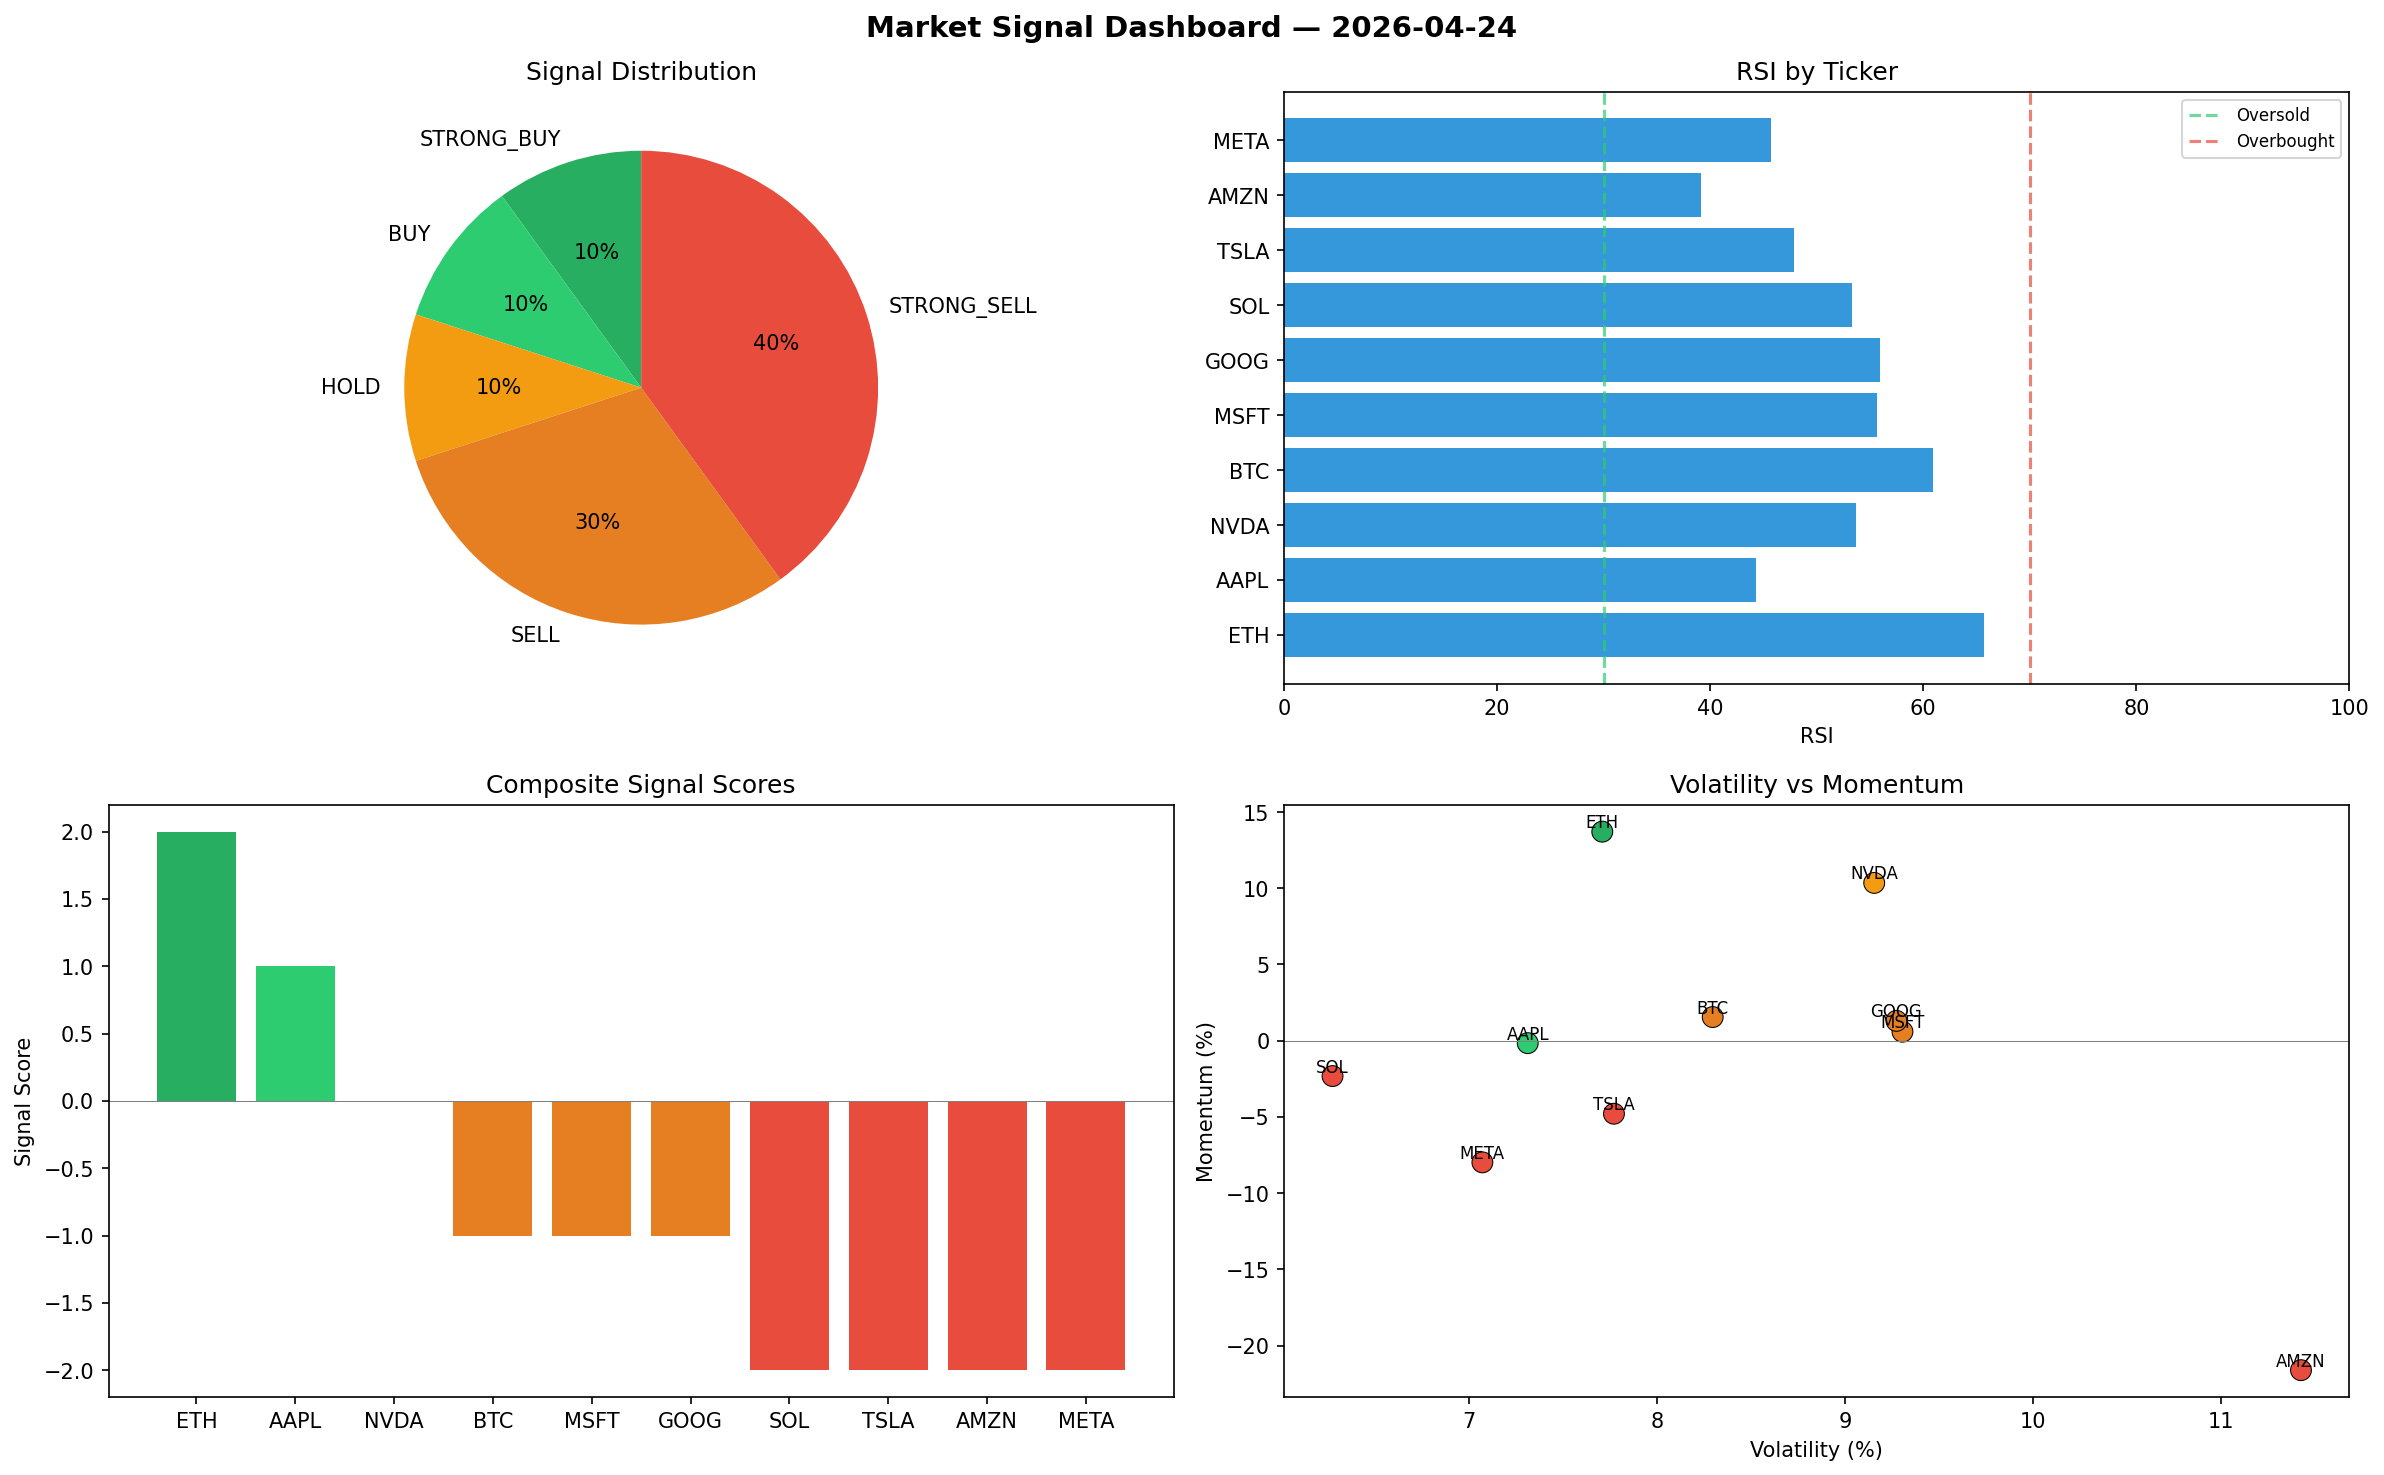
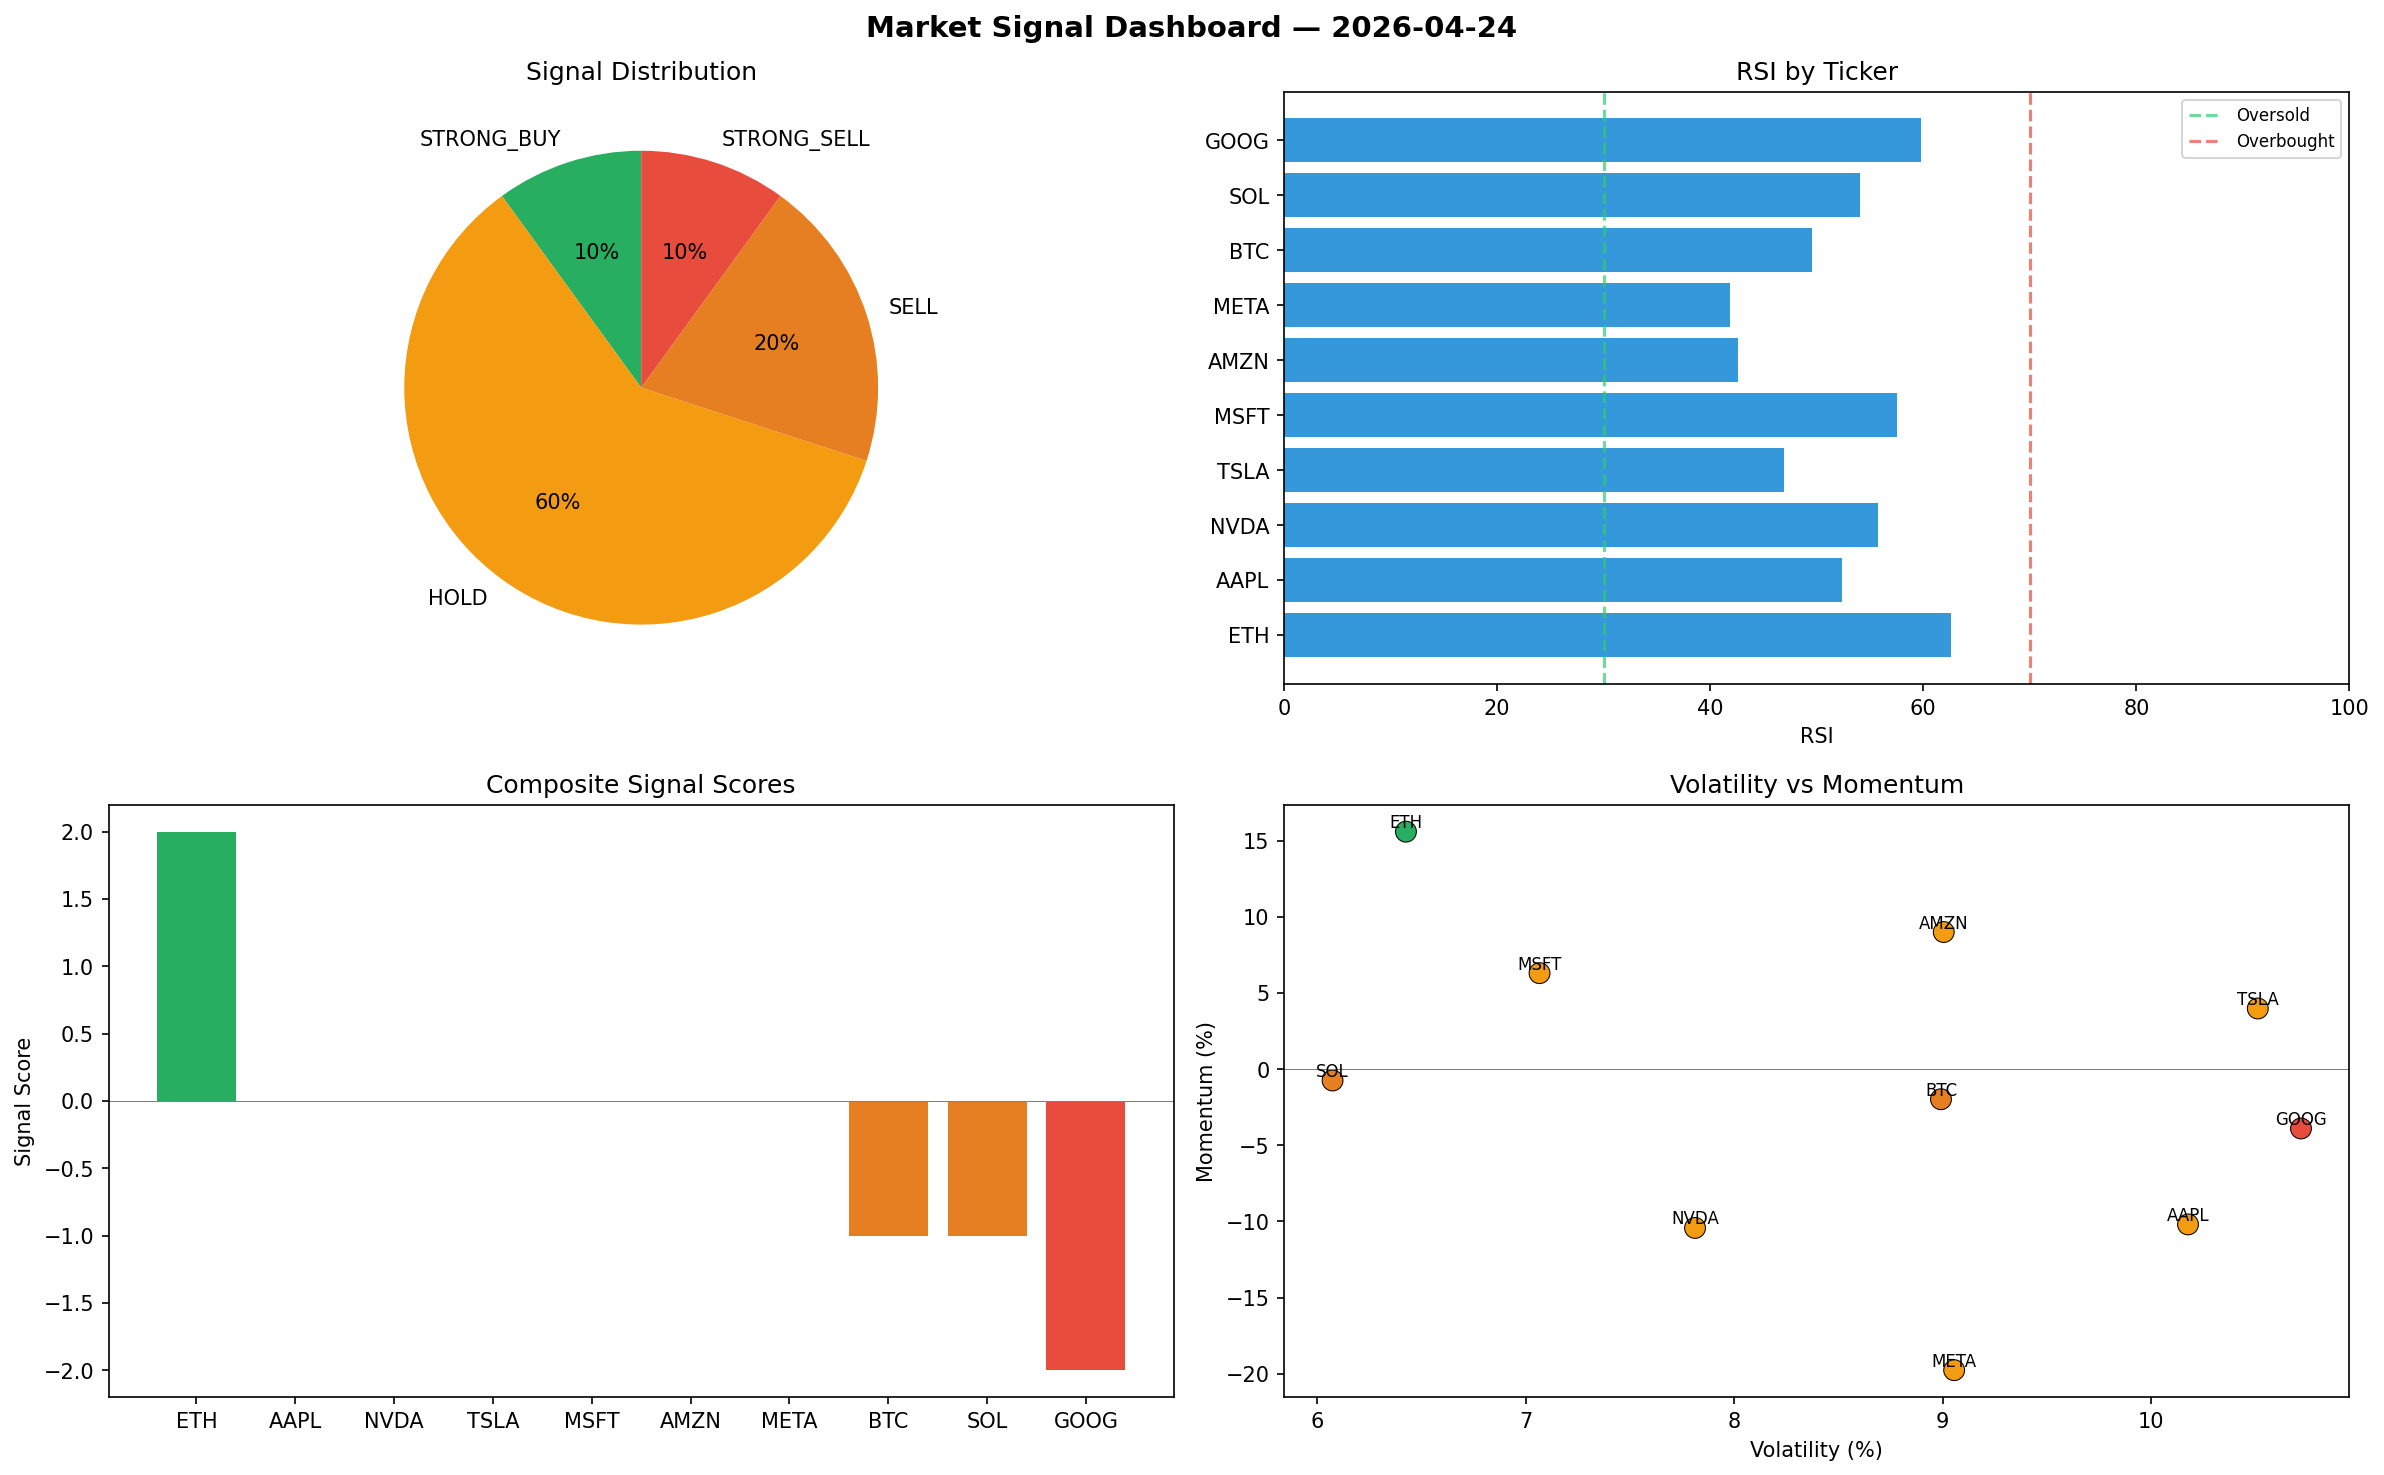
automated-bots: market signals 2026-04-24T21:09

diff --git a/logs/2026-04-24.md b/logs/2026-04-24.md
@@ -1,6 +1,6 @@
 # Market Signal Report — 2026-04-24
 
-**Run ID:** `9a1cbcf4f0` | **Buy:** 2 | **Sell:** 7 | **Hold:** 1
+**Run ID:** `62ba465447` | **Buy:** 1 | **Sell:** 3 | **Hold:** 6
 
 ![Dashboard](2026-04-24_dashboard.png)
 
@@ -8,28 +8,28 @@
 
 | Ticker | Price | Signal | Score | RSI | Momentum | Confidence |
 |--------|-------|--------|-------|-----|----------|------------|
-| ETH | $338.83 | **STRONG_BUY** | 2 | 65.74 | 0.1371 | 0.5 |
-| AAPL | $87.37 | **BUY** | 1 | 44.28 | -0.0016 | 0.25 |
-| NVDA | $3573.62 | **HOLD** | 0 | 53.67 | 0.1035 | 0.0 |
-| BTC | $1016.65 | **SELL** | -1 | 60.91 | 0.0155 | 0.25 |
-| MSFT | $1669.03 | **SELL** | -1 | 55.7 | 0.0059 | 0.25 |
-| GOOG | $3731.89 | **SELL** | -1 | 55.91 | 0.013 | 0.25 |
-| SOL | $2328.88 | **STRONG_SELL** | -2 | 53.28 | -0.0232 | 0.5 |
-| TSLA | $2403.31 | **STRONG_SELL** | -2 | 47.82 | -0.0479 | 0.5 |
-| AMZN | $1129.24 | **STRONG_SELL** | -2 | 39.12 | -0.2161 | 0.5 |
-| META | $3266.9 | **STRONG_SELL** | -2 | 45.7 | -0.0798 | 0.5 |
+| ETH | $4973.23 | **STRONG_BUY** | 2 | 62.61 | 0.1559 | 0.5 |
+| AAPL | $3945.06 | **HOLD** | 0 | 52.4 | -0.102 | 0.0 |
+| NVDA | $3072.88 | **HOLD** | 0 | 55.74 | -0.1043 | 0.0 |
+| TSLA | $1039.71 | **HOLD** | 0 | 46.94 | 0.0398 | 0.0 |
+| MSFT | $4058.96 | **HOLD** | 0 | 57.5 | 0.063 | 0.0 |
+| AMZN | $3049.22 | **HOLD** | 0 | 42.57 | 0.09 | 0.0 |
+| META | $1131.98 | **HOLD** | 0 | 41.86 | -0.1977 | 0.0 |
+| BTC | $983.77 | **SELL** | -1 | 49.56 | -0.0198 | 0.25 |
+| SOL | $3101.39 | **SELL** | -1 | 54.07 | -0.0075 | 0.25 |
+| GOOG | $3922.45 | **STRONG_SELL** | -2 | 59.83 | -0.039 | 0.5 |
 
 ## Delta vs Yesterday
 
 | Ticker | Today | Yesterday | Price Change | Signal Changed |
 |--------|-------|-----------|-------------|----------------|
-| ETH | STRONG_BUY | STRONG_SELL | 📉 -82.64% | ⚠ YES |
-| AAPL | BUY | STRONG_BUY | 📉 -95.58% | ⚠ YES |
-| NVDA | HOLD | STRONG_BUY | 📈 12.61% | ⚠ YES |
-| BTC | SELL | SELL | 📉 -57.08% | — |
-| MSFT | SELL | HOLD | 📉 -65.21% | ⚠ YES |
-| GOOG | SELL | SELL | 📈 1455.47% | — |
-| SOL | STRONG_SELL | STRONG_BUY | 📉 -20.36% | ⚠ YES |
-| TSLA | STRONG_SELL | STRONG_SELL | 📈 285.11% | — |
-| AMZN | STRONG_SELL | STRONG_BUY | 📉 -45.74% | ⚠ YES |
-| META | STRONG_SELL | BUY | 📈 15.29% | ⚠ YES |
+| ETH | STRONG_BUY | STRONG_SELL | 📈 154.81% | ⚠ YES |
+| AAPL | HOLD | STRONG_BUY | 📈 99.47% | ⚠ YES |
+| NVDA | HOLD | STRONG_BUY | 📉 -3.17% | ⚠ YES |
+| TSLA | HOLD | STRONG_SELL | 📈 66.6% | ⚠ YES |
+| MSFT | HOLD | HOLD | 📉 -15.41% | — |
+| AMZN | HOLD | STRONG_BUY | 📈 46.52% | ⚠ YES |
+| META | HOLD | BUY | 📉 -60.05% | ⚠ YES |
+| BTC | SELL | SELL | 📉 -58.46% | — |
+| SOL | SELL | STRONG_BUY | 📈 6.06% | ⚠ YES |
+| GOOG | STRONG_SELL | SELL | 📈 1534.9% | ⚠ YES |
